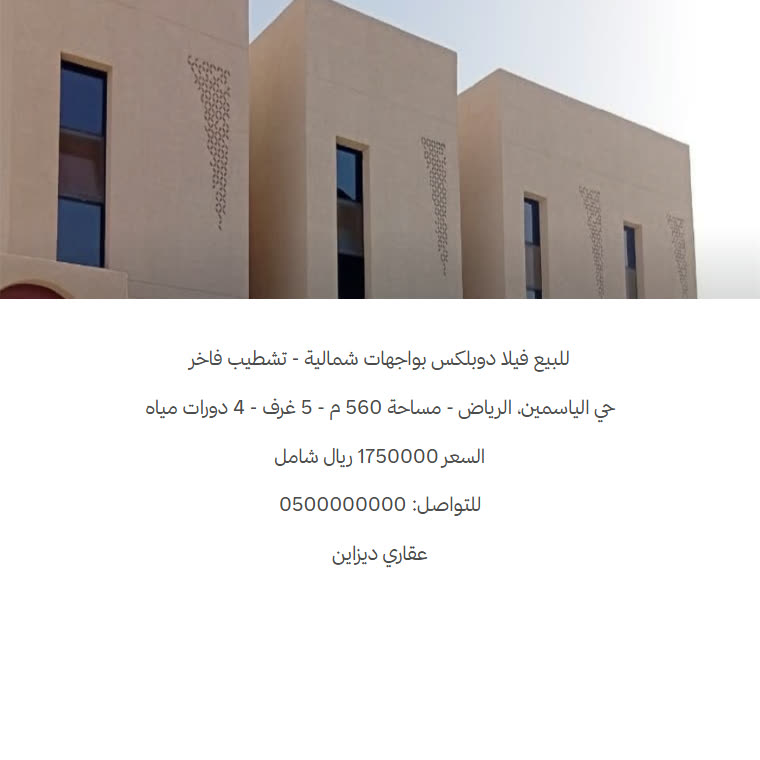
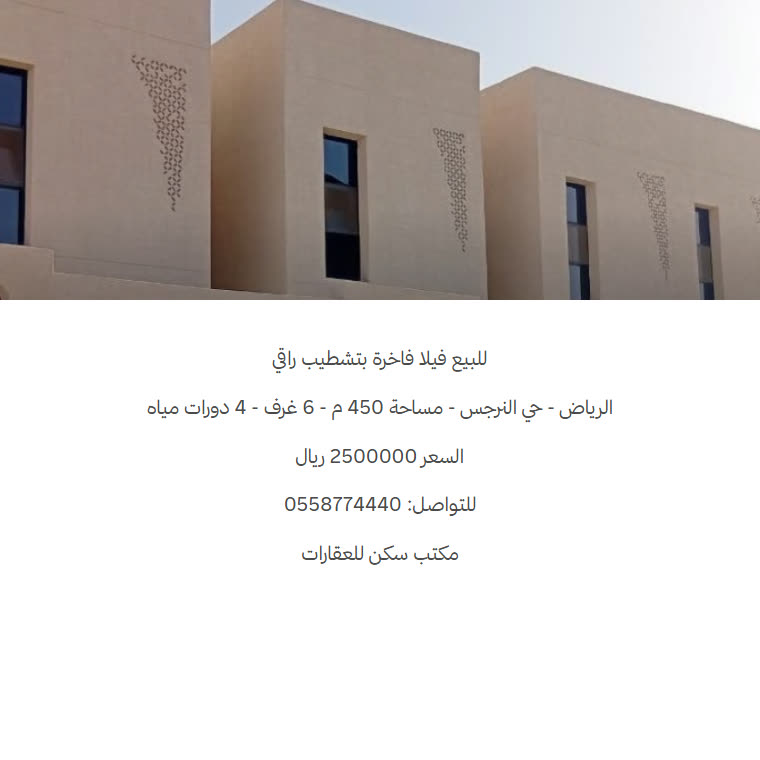
تحديث صور العرض بتصميم مكتب سكن للعقارات + توحيد بيانات الصفحة
- صورة "بعد": تصميم حقيقي صدّره المالك من المحرّر (فيلا حي النرجس 2,500,000)
- صورة "قبل": أُعيد بناؤها بنفس بيانات العقار ليكون المنزلق متسقاً
- مثال اللصق الذكي: نفس العقار ونفس البيانات — الصفحة تحكي قصة واحدة
- استبعاد ملفات المصدر الكبيرة من المستودع

diff --git a/index.html b/index.html
@@ -504,11 +504,11 @@
     </div>
 
     <div class="paste-grid" id="pasteDemo">
-      <div class="wa">للبيع فله بحي الياسمين شمال الرياض 🏡
-مساحة الأرض ٤٠٠ م، مسطح البناء 560م
-٥ غرف + ٤ دورات مياه + مجلس
-السعر ١مليون و٧٥٠ ألف قابل للتفاوض
-للتواصل: ابو محمد 0500000000</div>
+      <div class="wa">للبيع فله فاخرة بحي النرجس شمال الرياض 🏡
+مساحة الأرض ٤٥٠ م، تشطيب راقي
+٦ غرف + ٤ دورات مياه + مجلس
+السعر ٢ مليون و٥٠٠ ألف قابل للتفاوض
+للتواصل: مكتب سكن للعقارات 0558774440</div>
 
       <div class="arrowbox">
         <span class="ar">←</span>
@@ -517,11 +517,11 @@
 
       <div class="chips">
         <div class="chip"><i>نوع العقار</i><b>فيلا</b></div>
-        <div class="chip"><i>السعر</i><b>1,750,000 ريال</b></div>
-        <div class="chip"><i>الموقع</i><b>حي الياسمين، الرياض</b></div>
-        <div class="chip"><i>المساحة</i><b>560 م²</b></div>
-        <div class="chip"><i>الغرف</i><b>5 غرف · 4 دورات مياه</b></div>
-        <div class="chip"><i>الوسيط</i><b>أبو محمد · 0500000000</b></div>
+        <div class="chip"><i>السعر</i><b>2,500,000 ريال</b></div>
+        <div class="chip"><i>الموقع</i><b>حي النرجس، الرياض</b></div>
+        <div class="chip"><i>المساحة</i><b>450 م²</b></div>
+        <div class="chip"><i>الغرف</i><b>6 غرف · 4 دورات مياه</b></div>
+        <div class="chip"><i>الوسيط</i><b>مكتب سكن · 0558774440</b></div>
       </div>
     </div>
 
